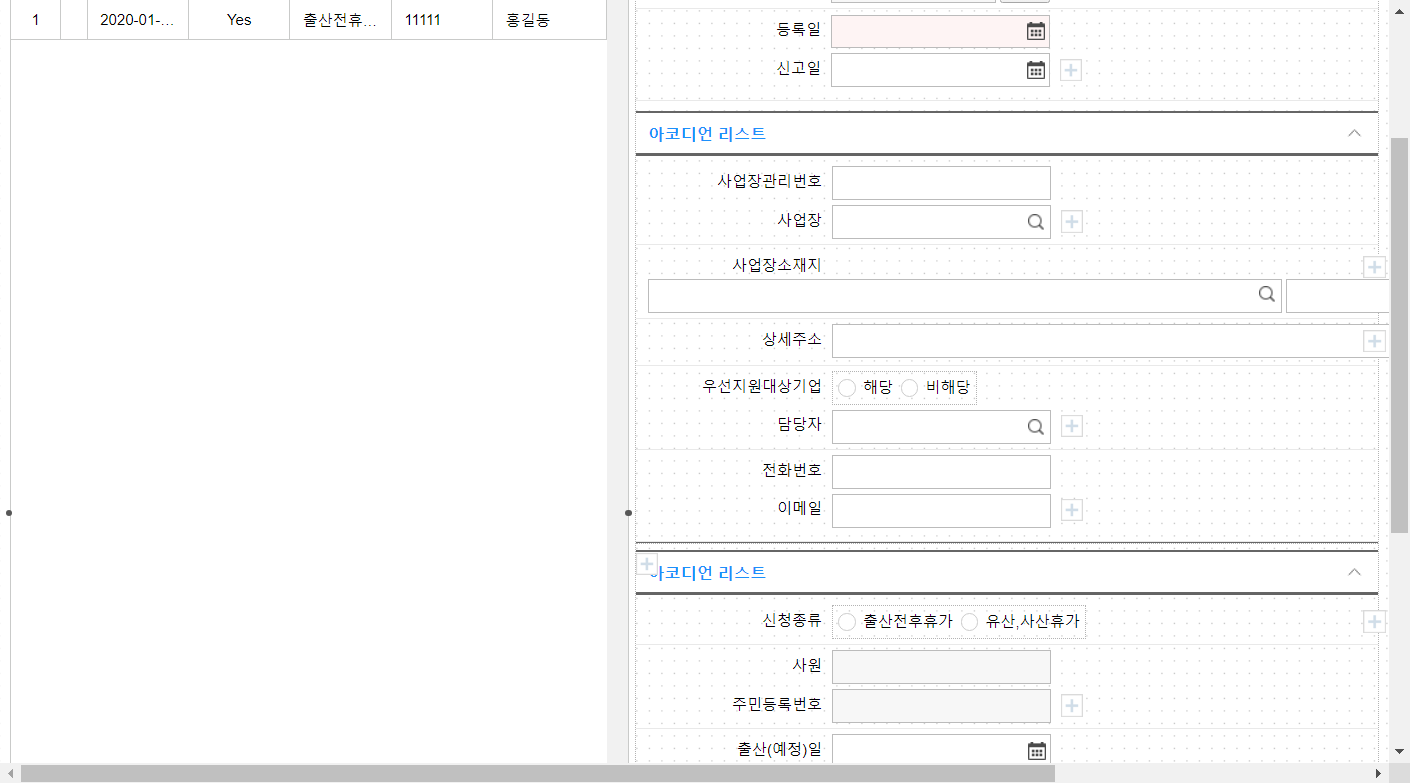
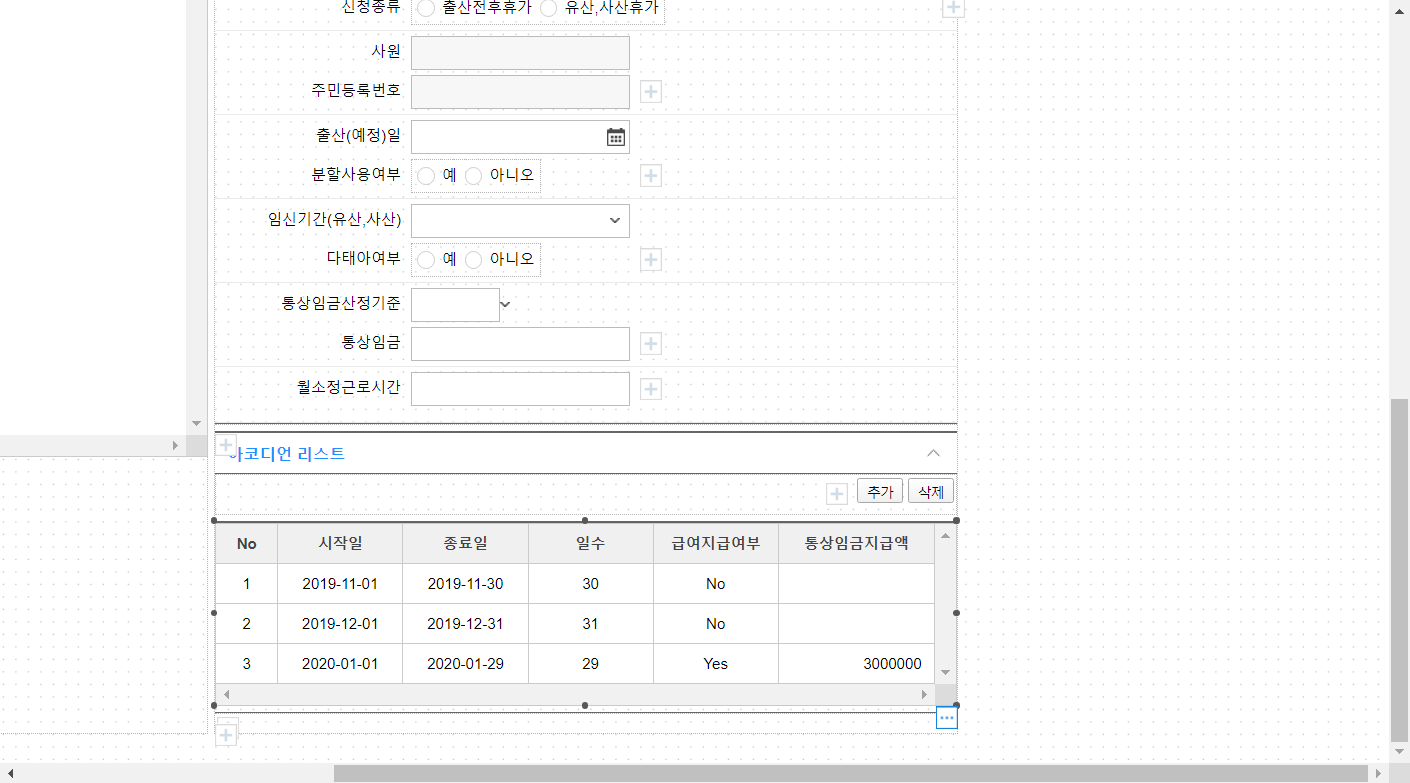
save3

diff --git a/PAMMPM/bin/PAMMPM00200.html b/PAMMPM/bin/PAMMPM00200.html
@@ -1,6 +1,6 @@
-<!--##24a72cbd-73b3-4384-b2f9-d578de09abdd##-->
+<!--##05263cee-c443-42b6-8be7-898d49705320##-->
 <!--##PAMMPM00200##-->
-<!--##ee8XteH47UpCUh+noRopEfHinRixJgOwOF8gFxqIf20=##-->
+<!--##Q0Td+enS0MCotItzUDdOvDKWrgCGsOwpHJigbveU3nQ=##-->
 <!--
   DEWS UI/UX IDE - Build Result - v1.5
   # PageID: PAMMPM00200
@@ -205,8 +205,7 @@
               <li>
                 <label>통상임금산정기준</label>
                 <span>
-                  <select id="USL_WAGE_CD" name="USL_WAGE_CD" class="dews-ui-dropdownlist basic" data-dews-show-tooltip="true" style="width: 71px;" data-dews-show-value-tooltip="true" data-dews-use-numkey="false"></select>
-                  <input id="xx" name="xx" type="text" class="dews-ui-textbox" style="width: 101px;" />
+                  <select id="USL_WAGE_CD" name="USL_WAGE_CD" class="dews-ui-dropdownlist basic" data-dews-value-field="SYSDEF_CD" data-dews-text-field="SYSDEF_NM" data-dews-show-tooltip="true" style="width: 71px;" data-dews-show-value-tooltip="true" data-dews-use-numkey="false"></select>
                 </span>
               </li>
               <li>
@@ -416,7 +415,7 @@
       data: {
           end_dt: '',
           foreign_yn: '',
-          field_cd_pipe: 'P00520|P02010|P03500|P03510',
+          field_cd_pipe: 'P00520|P02010|P03500|P03510|P03520',
           module_cd: 'HR',
           syscode_yn: '',
           keyword: '',
@@ -427,6 +426,7 @@
       var ar_P02010 = new Array();
       var ar_P03500 = new Array();
       var ar_P03510 = new Array();
+      var ar_P03520 = new Array();
     
       for (var i = 0; i < data.length; i++) {
         if (data[i].FIELD_CD == "P00520") { 
@@ -445,11 +445,16 @@
           ar_P03510.push(data[i]); 
     
         }
+        else if (data[i].FIELD_CD == "P03520") { 
+          ar_P03520.push(data[i]); 
+    
+        }
       }
       self.pipeDataSource1_P00520 = dews.ui.dataSource('pipeDataSource1_P00520',  { data: ar_P00520 });
       self.pipeDataSource1_P02010 = dews.ui.dataSource('pipeDataSource1_P02010',  { data: ar_P02010 });
       self.pipeDataSource1_P03500 = dews.ui.dataSource('pipeDataSource1_P03500',  { data: ar_P03500 });
       self.pipeDataSource1_P03510 = dews.ui.dataSource('pipeDataSource1_P03510',  { data: ar_P03510 });
+      self.pipeDataSource1_P03520 = dews.ui.dataSource('pipeDataSource1_P03520',  { data: ar_P03520 });
       self.pipeDataSource1 = dews.ui.dataSource('pipeDataSource1', { data: data });
       
     });
@@ -540,19 +545,22 @@
         {
           field: 'CLOSE_YN',
           title: '마감여부',
-          width: 80
+          width: 80,
+          attributes: { class: 'readonly' }
         },
         {
           field: 'REQ_KND_FG',
           title: '신청종류',
           width: 80,
-          align: 'left'
+          align: 'left',
+          attributes: { class: 'readonly' }
         },
         {
           field: 'EMP_NO',
           title: '사원번호',
           width: 80,
           align: 'left',
+          attributes: { class: 'readonly' },
           editor: {
             type: 'codepicker',
             helpCode: 'H_HR_EMP_MST_S02',
@@ -566,7 +574,8 @@
           field: 'KOR_NM',
           title: '한글명',
           width: 90,
-          align: 'left'
+          align: 'left',
+          attributes: { class: 'readonly' }
         },
         {
           field: 'DEPT_NM',
@@ -631,8 +640,11 @@
         var grid = self.mtnityidnfMaster_grid;
         grid.setCellValue(grid.select(), 'MLTPPRGN_YN', self.MLTPPRGN_YN.value(), false);
     });
+    self.USL_WAGE_CD.setDataSource(self.pipeDataSource1_P03520);
     dews.ui.grid(self.$MtnityidnfDtl_grid, {
       dataSource: self.MtnityidnfDtl_ds,
+      editable: true,
+      selectable: true,
       sortable: false,
       autoBind: false,
       checkable: false,
